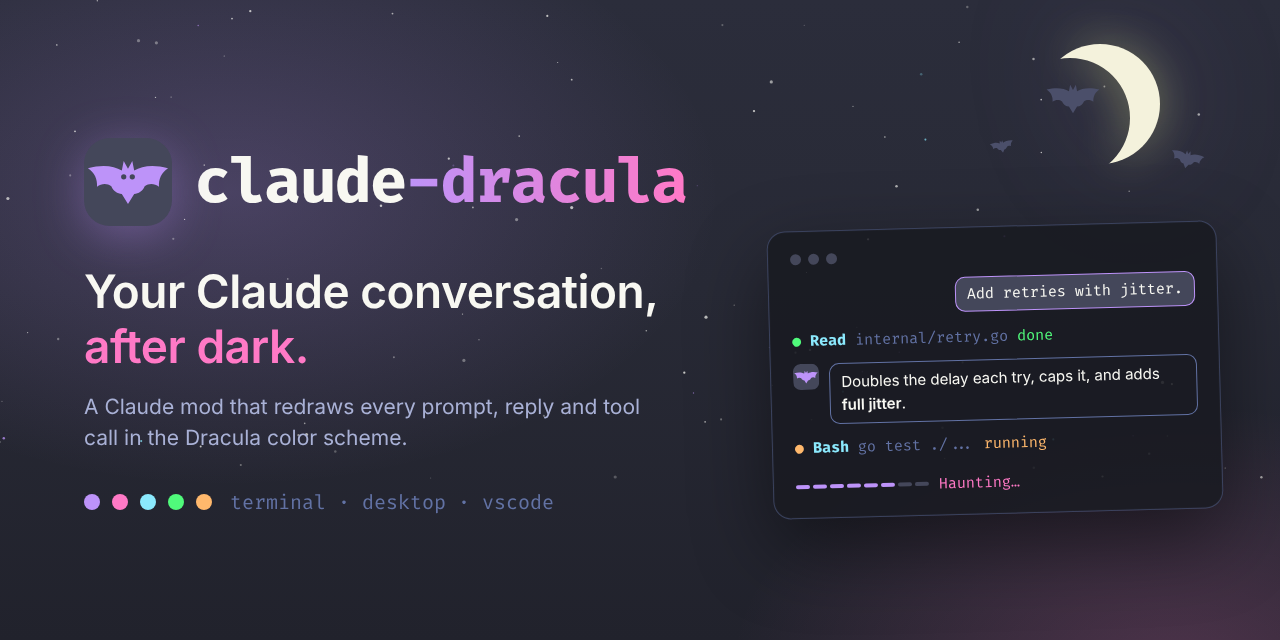
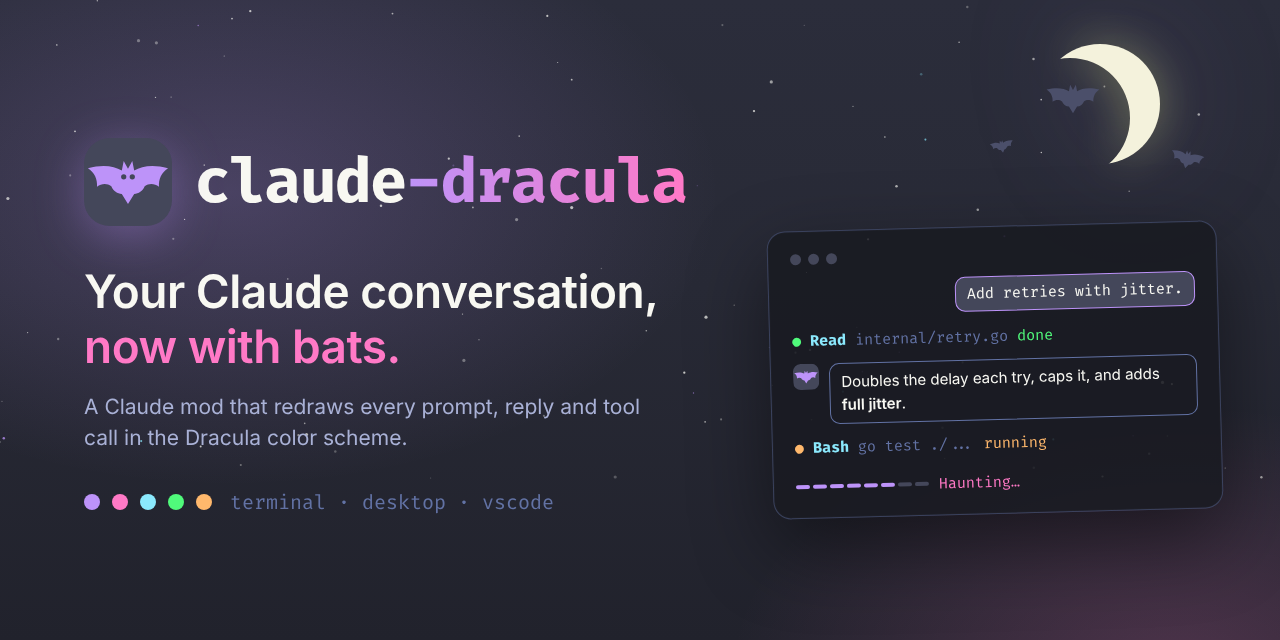
Change the headline to "now with bats"
Claude-Session: https://claude.ai/code/session_019YuCmPpV45xVESiCor3Rk7

Changed region(s): [[0.0625, 0.5, 0.3125, 0.5938]]

diff --git a/docs/index.html b/docs/index.html
@@ -3,11 +3,11 @@
 <head>
 <meta charset="utf-8">
 <meta name="viewport" content="width=device-width, initial-scale=1">
-<title>claude-dracula · Claude, after dark</title>
+<title>claude-dracula · Claude, now with bats</title>
 <meta name="description" content="A Claude mod that redraws every prompt, reply and tool call in the Dracula color scheme. Terminal, desktop and VS Code.">
 <meta name="theme-color" content="#282A36">
 <meta property="og:type" content="website">
-<meta property="og:title" content="claude-dracula · Claude, after dark">
+<meta property="og:title" content="claude-dracula · Claude, now with bats">
 <meta property="og:description" content="A Claude mod that redraws every prompt, reply and tool call in the Dracula color scheme.">
 <meta property="og:url" content="https://rossedman.github.io/claude-dracula/">
 <meta property="og:image" content="https://rossedman.github.io/claude-dracula/social-preview.png">
@@ -304,7 +304,7 @@
   <div class="wrap hero-grid">
     <div>
       <span class="eyebrow"><span class="pulse"></span>A Claude mod · Dracula color scheme</span>
-      <h1>Claude,<br><span class="grad">after dark.</span></h1>
+      <h1>Claude,<br><span class="grad">now with bats.</span></h1>
       <p class="lede"><b>claude-dracula</b> redraws your Claude conversation in the Dracula palette: purple, pink, cyan and green on a dark indigo-gray. Your prompts turn into bubbles, replies get a bat, and the working line says <span style="color:var(--pink)">Lurking…</span> <span style="color:var(--pink)">Haunting…</span> <span style="color:var(--pink)">Conjuring…</span></p>
       <div class="cta">
         <div class="install">

diff --git a/scripts/banner.html b/scripts/banner.html
@@ -85,7 +85,7 @@
       </svg>
       <div class="word">claude<span class="accent">-dracula</span></div>
     </div>
-    <div class="tagline">Your Claude conversation,<br><em>after dark.</em></div>
+    <div class="tagline">Your Claude conversation,<br><em>now with bats.</em></div>
     <div class="sub">A Claude mod that redraws every prompt, reply and tool call in the Dracula color scheme.</div>
     <div class="band">
       <span class="dot" style="background:var(--purple)"></span>

diff --git a/README.md b/README.md
@@ -1,4 +1,4 @@
-<p align="center"><a href="https://rossedman.github.io/claude-dracula/"><img src="docs/banner.png" alt="claude-dracula: your Claude conversation, after dark" width="100%"></a></p>
+<p align="center"><a href="https://rossedman.github.io/claude-dracula/"><img src="docs/banner.png" alt="claude-dracula: your Claude conversation, now with bats" width="100%"></a></p>
 
 # Pixelstack
 
